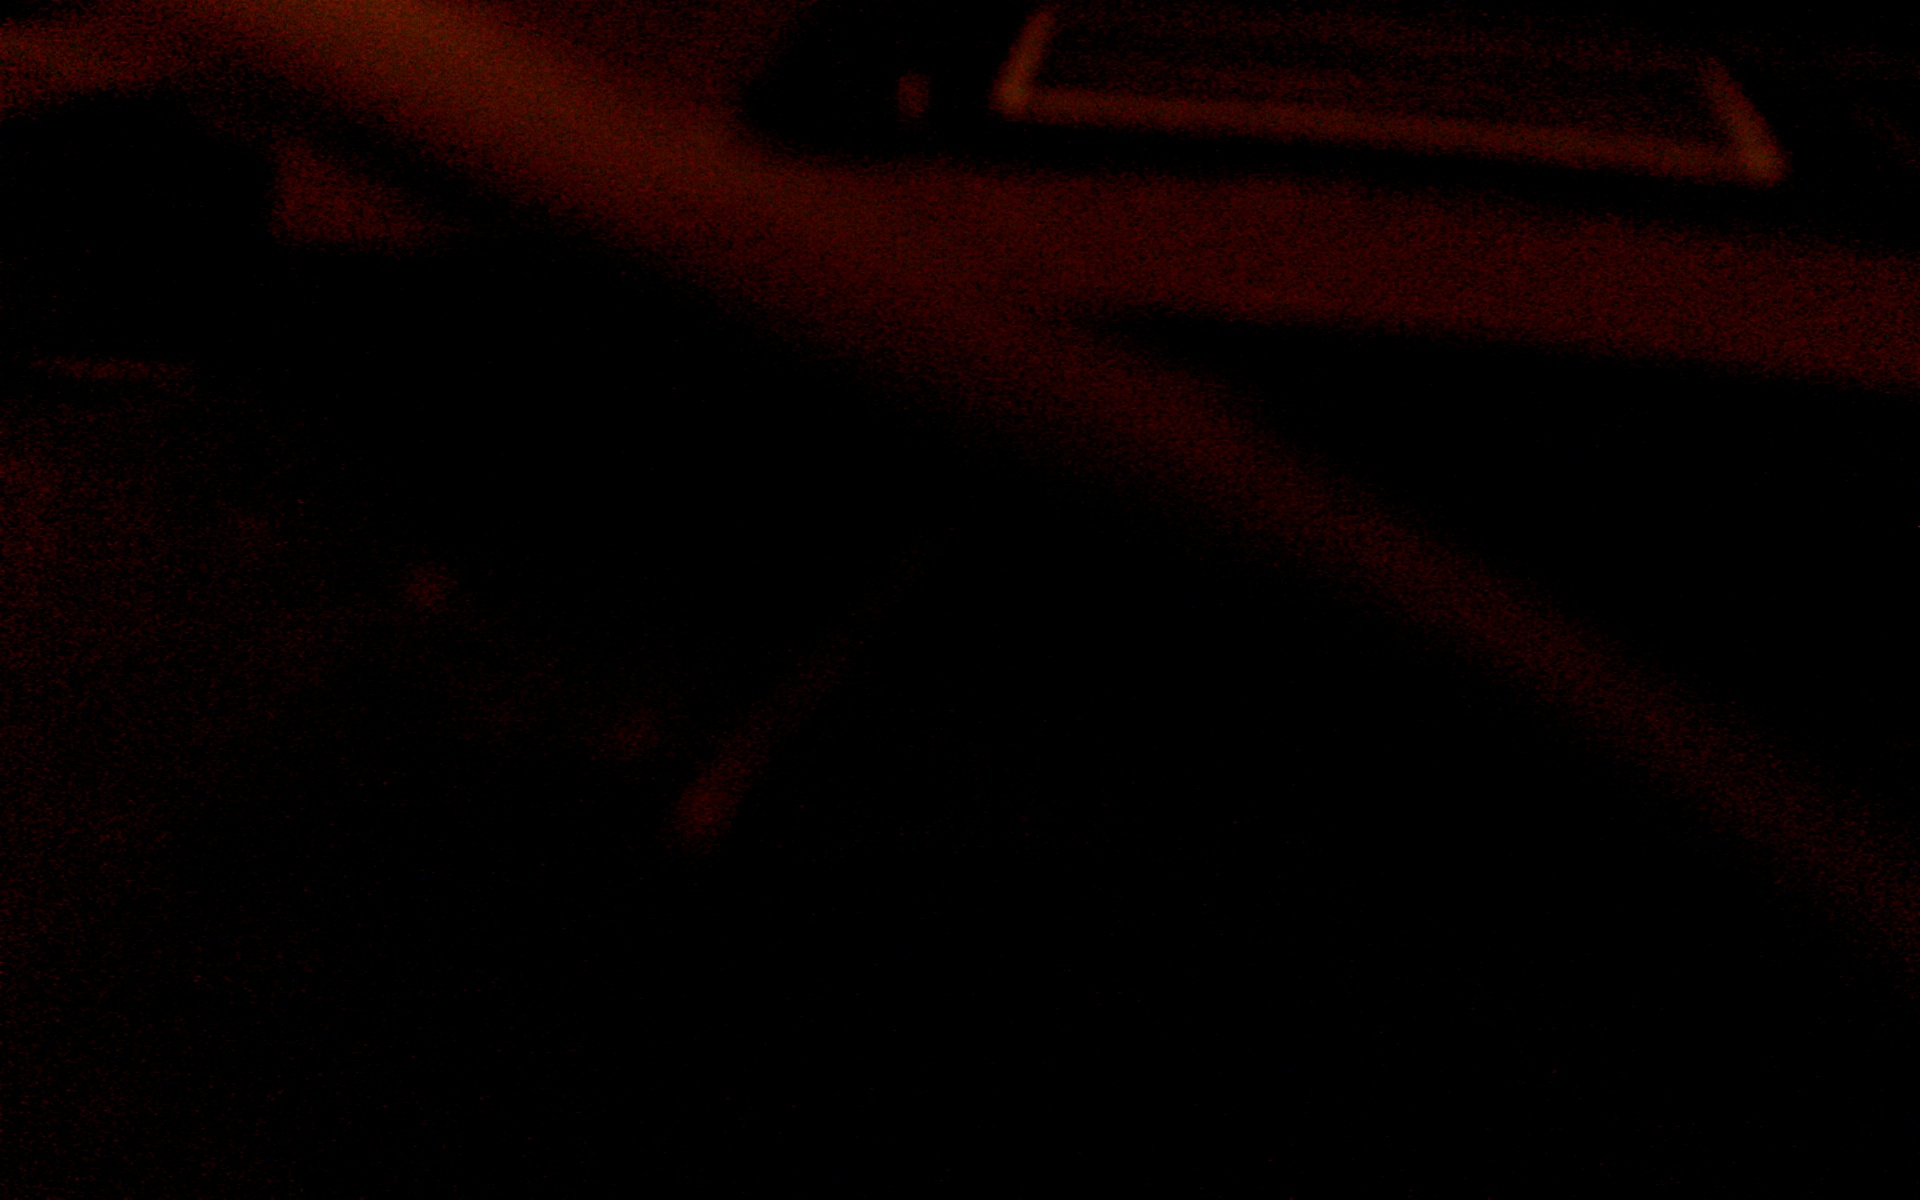
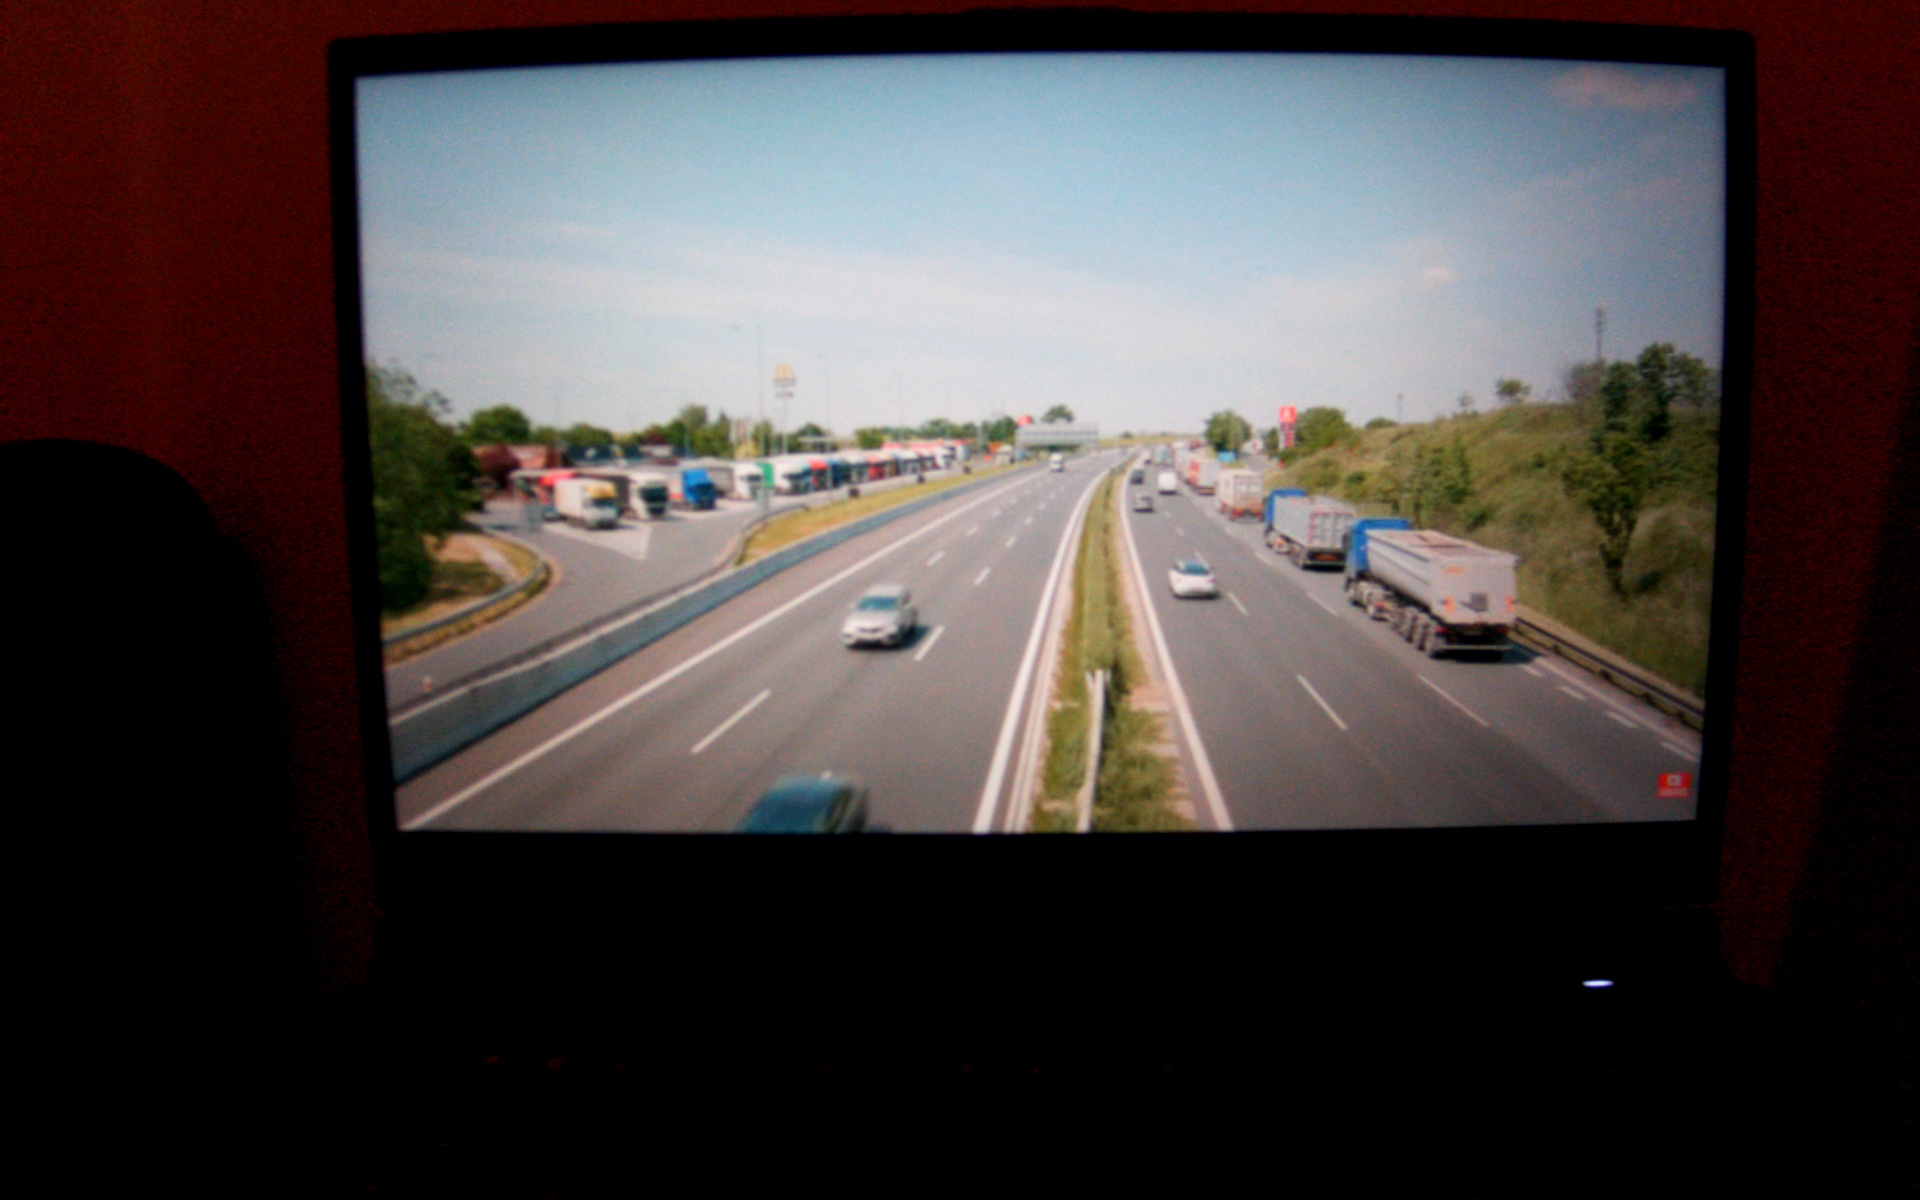
ID bazlı homografi hesabı geldi

diff --git a/highway_detection.py b/highway_detection.py
@@ -25,6 +25,7 @@ gi.require_version("Gst", "1.0")
 gi.require_version("GstRtspServer", "1.0")
 from gi.repository import GLib, Gst, GstRtspServer
 
+import numpy as np
 import pyds
 from mqtt_publisher import MqttPublisher
 
@@ -65,7 +66,14 @@ TRACK_LOST_TTL_FRAMES = 45
 TRACK_END_TTL_FRAMES = 90
 TRACK_HISTORY_MAXLEN = 30
 
+# Speed estimation params
+SPEED_EMA_ALPHA = 0.35
+SPEED_MIN_DT_S = 1.0 / (CAMERA_FPS * 1.5)   # çok küçük dt jitter'ı engelle
+SPEED_MAX_KMH = 260.0                       # outlier clamp
+SPEED_MIN_MOVE_M = 0.05                     # çok küçük hareketi ignore et
+
 REPO_ROOT = os.path.dirname(os.path.abspath(__file__))
+HOMOGRAPHY_PATH = os.path.join(REPO_ROOT, "configs", "homography.npy")
 
 
 # ─────────────────────────────────────────────────────────────────────────────
@@ -89,6 +97,33 @@ def parse_args():
     parser.add_argument("--mqtt-port", type=int, default=DEFAULT_MQTT_PORT)
     parser.add_argument("--sensor-id", default=DEFAULT_SENSOR_ID)
     return parser.parse_args()
+
+
+# ─────────────────────────────────────────────────────────────────────────────
+# Homography + Speed helpers
+# ─────────────────────────────────────────────────────────────────────────────
+
+def load_homography(path):
+    if not os.path.exists(path):
+        raise FileNotFoundError(f"Homography dosyası bulunamadı: {path}")
+    H = np.load(path)
+    if H.shape != (3, 3):
+        raise ValueError(f"Homography shape hatalı: {H.shape}, beklenen (3,3)")
+    return H.astype(np.float64)
+
+
+def pixel_to_world(H, u, v):
+    p = np.array([float(u), float(v), 1.0], dtype=np.float64)
+    w = H @ p
+    if abs(w[2]) < 1e-9:
+        return None
+    return (float(w[0] / w[2]), float(w[1] / w[2]))
+
+
+def bbox_bottom_center(rect_params):
+    u = float(rect_params.left) + float(rect_params.width) * 0.5
+    v = float(rect_params.top) + float(rect_params.height)
+    return u, v
 
 
 # ─────────────────────────────────────────────────────────────────────────────
@@ -282,7 +317,43 @@ class Stats:
 # Probe
 # ─────────────────────────────────────────────────────────────────────────────
 
-def make_osd_sink_pad_probe(stats, mqtt_publisher=None, debug=False):
+def make_osd_sink_pad_probe(stats, mqtt_publisher=None, debug=False, homography=None):
+    # tid -> speed state
+    speed_state = {}
+
+    def _estimate_speed_kmh(track_id, world_xy, ts_sec):
+        st = speed_state.get(track_id)
+        if st is None:
+            speed_state[track_id] = {
+                "last_world": world_xy,
+                "last_ts": ts_sec,
+                "speed_ema_kmh": 0.0,
+            }
+            return 0.0, 0.0  # raw, ema
+
+        dt = ts_sec - st["last_ts"]
+        if dt < SPEED_MIN_DT_S:
+            return st["speed_ema_kmh"], st["speed_ema_kmh"]
+
+        dx = world_xy[0] - st["last_world"][0]
+        dy = world_xy[1] - st["last_world"][1]
+        dist_m = (dx * dx + dy * dy) ** 0.5
+
+        if dist_m < SPEED_MIN_MOVE_M:
+            raw_kmh = 0.0
+        else:
+            raw_kmh = (dist_m / dt) * 3.6
+
+        if raw_kmh > SPEED_MAX_KMH:
+            raw_kmh = SPEED_MAX_KMH
+
+        ema = SPEED_EMA_ALPHA * raw_kmh + (1.0 - SPEED_EMA_ALPHA) * st["speed_ema_kmh"]
+
+        st["last_world"] = world_xy
+        st["last_ts"] = ts_sec
+        st["speed_ema_kmh"] = ema
+        return raw_kmh, ema
+
     def probe(pad, info, u_data):
         gst_buffer = info.get_buffer()
         if not gst_buffer:
@@ -304,6 +375,13 @@ def make_osd_sink_pad_probe(stats, mqtt_publisher=None, debug=False):
             mqtt_detections = []   # active object candidates
             debug_lines = []
 
+            # timestamp: PTS varsa onu kullan, yoksa fallback wall clock
+            ts_sec = 0.0
+            if hasattr(frame_meta, "buf_pts") and frame_meta.buf_pts and int(frame_meta.buf_pts) > 0:
+                ts_sec = float(frame_meta.buf_pts) / 1e9
+            else:
+                ts_sec = time.time()
+
             l_obj = frame_meta.obj_meta_list
             while l_obj is not None:
                 try:
@@ -319,17 +397,33 @@ def make_osd_sink_pad_probe(stats, mqtt_publisher=None, debug=False):
                 if track_id != TRACK_ID_UNASSIGNED:
                     track_id_class_pairs.append((track_id, cls_id))
                     r = obj_meta.rect_params
+
+                    speed_kmh = 0.0
+                    if homography is not None:
+                        u, v = bbox_bottom_center(r)
+                        world_xy = pixel_to_world(homography, u, v)
+                        if world_xy is not None:
+                            _, speed_ema = _estimate_speed_kmh(int(track_id), world_xy, ts_sec)
+                            speed_kmh = max(0.0, float(speed_ema))
+
+                    # OSD label: ID yanında hız
+                    obj_meta.text_params.display_text = (
+                        f"{cls_name}[id={int(track_id)}] {speed_kmh:.1f} km/h"
+                    )
+
                     mqtt_detections.append({
                         "track_id": int(track_id),
                         "class": cls_name,
                         "confidence": round(float(obj_meta.confidence), 2),
                         "bbox": [int(r.left), int(r.top), int(r.width), int(r.height)],
                         "track_state": "active",
+                        "speed_kmh": round(speed_kmh, 1),
                     })
 
                     if debug:
                         debug_lines.append(
-                            f"{cls_name}[id={track_id}] conf={obj_meta.confidence:.2f} "
+                            f"{cls_name}[id={track_id}] speed={speed_kmh:.1f}km/h "
+                            f"conf={obj_meta.confidence:.2f} "
                             f"bbox=({int(r.left)},{int(r.top)},{int(r.width)},{int(r.height)})"
                         )
 
@@ -522,6 +616,14 @@ def main():
     args = parse_args()
     Gst.init(None)
 
+    # Homography yükle
+    try:
+        H = load_homography(HOMOGRAPHY_PATH)
+        print(f"[bilgi] Homography yüklendi: {HOMOGRAPHY_PATH}")
+    except Exception as e:
+        print(f"[HATA] Homography yüklenemedi: {e}")
+        sys.exit(1)
+
     mqtt_publisher = None
     if not args.no_mqtt:
         mqtt_publisher = MqttPublisher(
@@ -544,7 +646,12 @@ def main():
         print("HATA: osd sink pad alınamadı")
         sys.exit(1)
 
-    probe_fn = make_osd_sink_pad_probe(stats, mqtt_publisher=mqtt_publisher, debug=args.debug)
+    probe_fn = make_osd_sink_pad_probe(
+        stats,
+        mqtt_publisher=mqtt_publisher,
+        debug=args.debug,
+        homography=H,
+    )
     osd_sink_pad.add_probe(Gst.PadProbeType.BUFFER, probe_fn, 0)
 
     loop = GLib.MainLoop()
